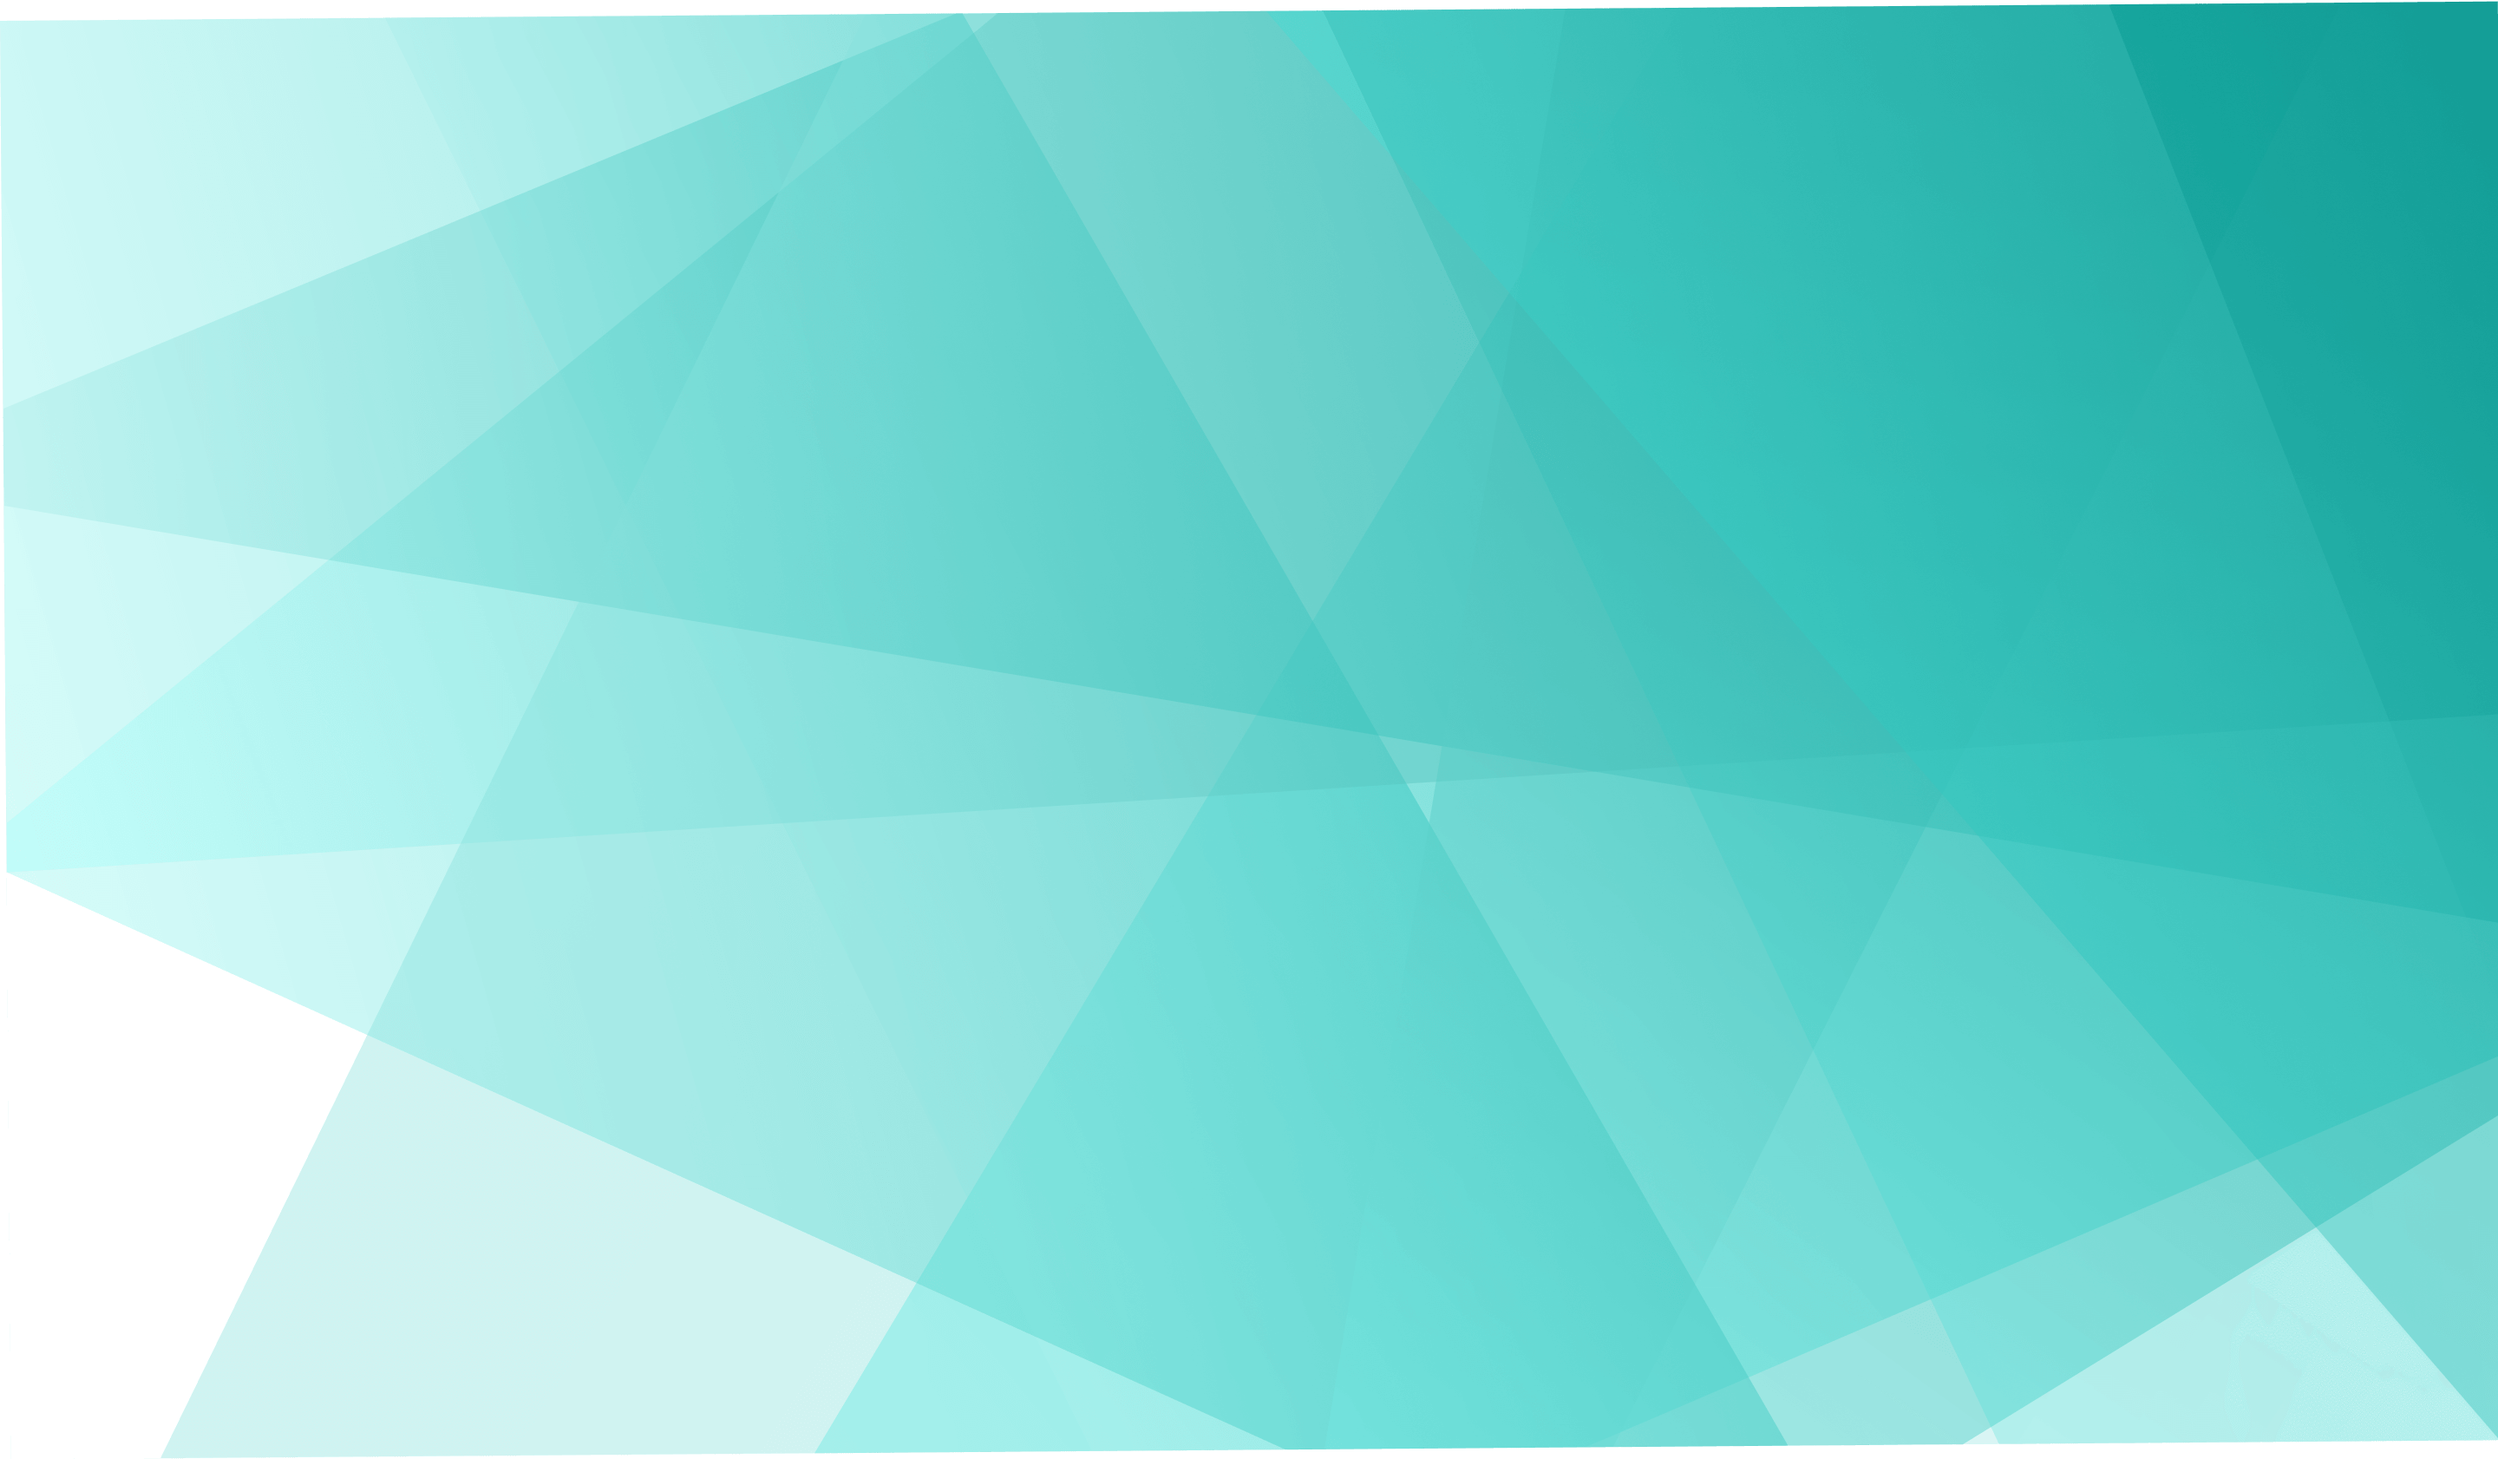
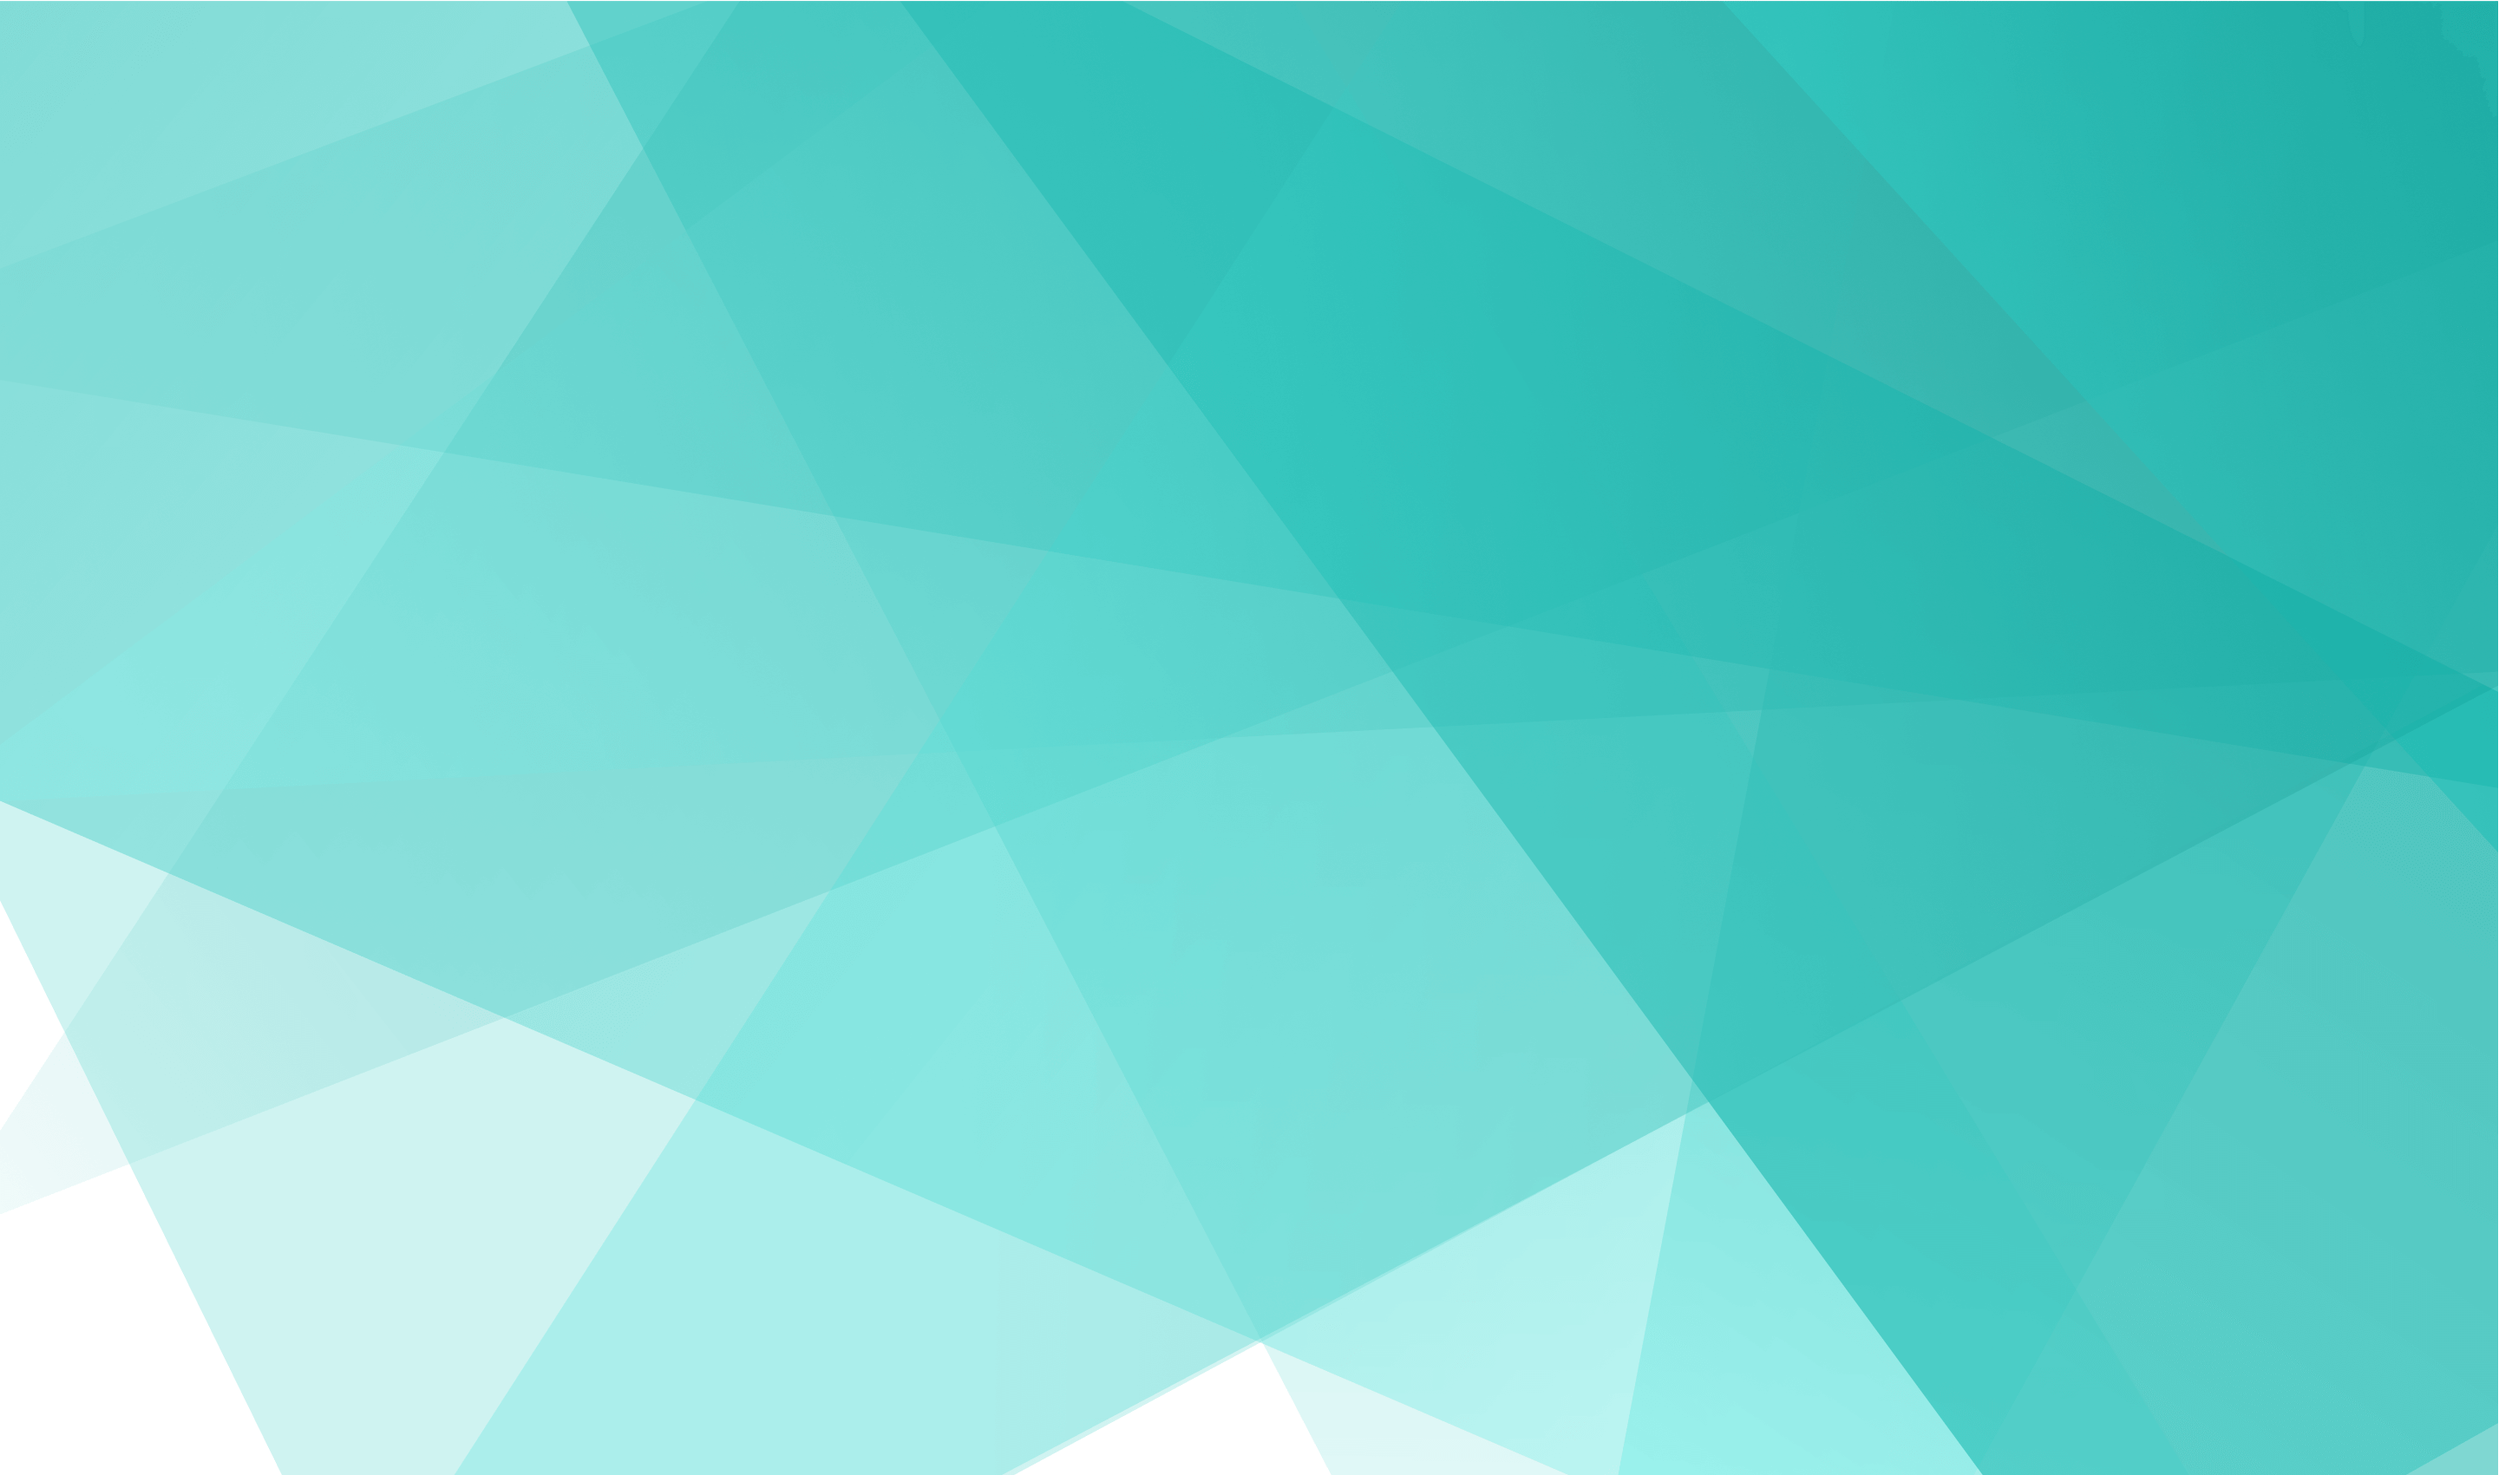
feat: add optimized image on main page, initialize About page

diff --git a/src/pages/Home/blocks/ContactUs/ContactUs.module.css b/src/pages/Home/blocks/ContactUs/ContactUs.module.css
@@ -8,6 +8,8 @@
     background-position: center;
     background-repeat: no-repeat;
     background-size: cover;
+    position: relative;
+    overflow: hidden;
     /* display: flex;
     flex-direction: column;
      justify-content: center; */
@@ -22,10 +24,81 @@
 .content {
     padding: 0 40px;
     /* height: 100%; */
-    display: flex;
-    justify-content: center;
+    /* display: flex;
+    justify-content: center; */
     /* align-items: center; */
 }
+
+.circle {
+    background-color: rgba(13, 239, 227, 0.49);
+    height: 60vw;
+    width: 60vw;
+    min-height: 500px;
+    min-width: 500px;
+    max-height: 900px;
+    max-width: 900px;
+    display: flex;
+    align-items: center;
+    justify-content: center;
+    border-radius: 50%;
+    position: absolute;
+    right: -30px;
+    top: 0;
+}
+
+.circle__content {
+    width: 70%;
+    display: flex;
+    flex-direction: column;
+    align-items: center;
+}
+
+.circle__title {
+    font-size: 40px;
+    font-weight: 700;
+    color: rgb(255, 255, 255);
+    margin-bottom: 30px;
+    text-align: center;
+    font-family: 'Montserrat';
+}
+
+.contact_btn {
+    font-size: 30px;
+    font-weight: 700;
+    padding: 20px 30px;
+    border-radius: 20px;
+    
+}
+
+.contacts {
+    font-size: 30px;
+    font-weight: 600;
+    color: rgb(255, 255, 255);
+    padding-top: 15%;
+}
+
+.contacts__title {
+    font-size: 40px;
+    font-weight: 700;
+    margin-bottom: 50px;
+}
+
+.offices__contacts {
+    width: 40%;
+    display: flex;
+    flex-direction: column;
+    gap: 20px;
+
+}
+
+.office {
+    width: 100%;
+    display: flex;
+    justify-content: space-between;
+}
+
+
+
 
 .why_us__items {
     width: 100%;

diff --git a/src/pages/Home/blocks/ContactUs/ContactUs.js b/src/pages/Home/blocks/ContactUs/ContactUs.js
@@ -7,7 +7,31 @@ const ContactUs = () => {
     <div className={styles.container}>
       <div className={styles.background_filter}>
         <div className={styles.content}>
-          <div className={styles.heading}>{t("our_goal")}</div>
+          <div className={styles.contacts}>
+            <div className={styles.contacts__title}>{t("choose_office")}</div>
+            <div className={styles.offices__contacts}>
+              <div className={styles.office}>
+                <div className={styles.office__name}>Boulouparis</div>
+                <div className={styles.office__phone}>+687 23 06 06</div>
+              </div>
+              <div className={styles.office}>
+                <div className={styles.office__name}>La Foa</div>
+                <div className={styles.office__phone}>+687 737 389</div>
+              </div>
+              <div className={styles.office}>
+                <div className={styles.office__name}>Ducos</div>
+                <div className={styles.office__phone}>+687 23 06 00</div>
+              </div>
+            </div>
+          </div>
+          <div className={styles.circle}>
+            <div className={styles.circle__content}>
+              <h2 className={styles.circle__title}>{t("call_to_action")}</h2>
+              <button className={styles.contact_btn}>
+                {t("contact_btn_text")}
+              </button>
+            </div>
+          </div>
         </div>
       </div>
     </div>

diff --git a/src/pages/Home/Home.module.css b/src/pages/Home/Home.module.css
@@ -1,42 +1,4 @@
 .container {
     width: 100%;
     max-width: 1600px;
-    height: 100vh;
-    background-image: url(../../assets/images/laptop.jpg);
-    background-position: center;
-    background-repeat: no-repeat;
-    background-size: cover;
-}
-.content {
-    background-color: hsla(177, 100%, 26%, 0.7);
-    color: white;
-    height: 100%;
-    display: flex;
-    flex-direction: column;
-    align-items: flex-end;
-    clip-path: polygon(68% 0, 100% 0, 100% 100%, 21% 100%);
-    padding: 40px;
-    /* justify-content: center; */
-}
-.title {
-    margin-top: 10%;
-    font-family: 'Montserrat', sans-serif;
-    font-size: 90px;
-    font-weight: 800;
-    text-transform: uppercase;
-}
-.details {
-    margin-top: 8%;
-    width: 50%;
-    font-size: 48px;
-    font-weight: 600;
-    font-family: 'Open Sans', sans-serif;
-    text-align: end;
-    line-height: 145%;
-}
-@media (max-width: 1400px) {
-    .content{
-        clip-path: polygon(47% 0, 100% 0, 100% 100%, 0% 100%);
-
-    }
 }

diff --git a/src/pages/Home/blocks/WhyUs/WhyUs.js b/src/pages/Home/blocks/WhyUs/WhyUs.js
@@ -24,18 +24,18 @@ const WhyUs = () => {
               <img src={dialogue} alt="dialogue icon" />
             </div>
             <div className={styles.why_us__text_heading}>
-              {t("why_us_1_heading")}
+              {t("why_us_2_heading")}
             </div>
-            <div className={styles.why_us__text}>{t("why_us_1_text")}</div>
+            <div className={styles.why_us__text}>{t("why_us_2_text")}</div>
           </div>
           <div className={styles.why_us__item}>
             <div className={styles.why_us__icon}>
               <img src={graphic} alt="graphic icon" />
             </div>
             <div className={styles.why_us__text_heading}>
-              {t("why_us_1_heading")}
+              {t("why_us_3_heading")}
             </div>
-            <div className={styles.why_us__text}>{t("why_us_1_text")}</div>
+            <div className={styles.why_us__text}>{t("why_us_3_text")}</div>
           </div>
         </div>
       </div>

diff --git a/src/pages/About/About.js b/src/pages/About/About.js
@@ -1,16 +1,18 @@
 import { useTranslation } from "react-i18next";
 import styles from "./About.module.css"
+import CompanyStory from "./blocks/CompanyStory/CompanyStory";
+import Force from "./blocks/Force/Force";
+import Motto from "./blocks/Motto/Motto";
+import Team from "./blocks/Team/Team";
 const About = () => {
     const { t, i18n } = useTranslation();
     return (
-         <div className={styles.container}>
-        <h1>
-            {t("about")}
-        </h1>
-        <p>
-            dfghbjnmhgfrv
-        </p>
-        </div>
-    )
+      <div className={styles.container}>
+        <CompanyStory />
+        <Motto />
+        <Force />
+        <Team />
+      </div>
+    );
 }
 export default About;

diff --git a/src/pages/About/blocks/CompanyStory/CompanyStory.module.css b/src/pages/About/blocks/CompanyStory/CompanyStory.module.css
@@ -1,0 +1,39 @@
+.container {
+    width: 100%;
+    display: flex;
+    
+}
+
+.author {
+    min-width: 300px;
+    width: 55%;
+    height: 100%;
+    background-color: #00867F;
+    color: rgb(255, 255, 255);
+    padding: 50px;
+    font-size: 24px;
+    font-weight: 400;
+    line-height: 145%;
+}
+.author_photo {
+    height: 300px;
+    width: 300px;
+    border-radius: 50%;
+    background-color: rgb(202, 202, 202);
+    margin: 0 auto;
+}
+.author h2 {
+    margin-top: 50px;
+    margin-bottom: 20px;
+    font-size: 32px;
+    font-weight: 500;
+}
+.text {
+    width: 100%;
+    display: flex;
+    align-items: center;
+    padding: 50px;
+    font-size: 30px;
+    padding: 50px;
+    line-height: 145%;
+}

diff --git a/src/pages/Home/blocks/OurGoal/OurGoal.js b/src/pages/Home/blocks/OurGoal/OurGoal.js
@@ -1,8 +1,6 @@
 import { useTranslation } from "react-i18next";
 import styles from "./OurGoal.module.css";
-// import dialogue from "../../../../assets/icons/dialogue.svg";
-// import documents from "../../../../assets/icons/documents.svg";
-// import graphic from "../../../../assets/icons/graphic.svg";
+
 const OurGoal = () => {
   const { t, i18n } = useTranslation();
   return (
@@ -10,7 +8,6 @@ const OurGoal = () => {
       <div className={styles.content}>
         <div className={styles.heading}>{t("our_goal")}</div>
         <div className={styles.text}>{t("our_goal_text")}</div>
-        {/* <img src={dialogue}/> */}
       </div>
     </div>
   );

diff --git a/src/pages/About/blocks/Motto/Motto.module.css b/src/pages/About/blocks/Motto/Motto.module.css
@@ -1,0 +1,33 @@
+
+.container {
+    padding: 200px 150px;
+    display: flex;
+    flex-direction: column;
+    justify-content: center;
+    align-items: center;
+}
+
+.our_motto {
+    font-size: 80px;
+    font-weight: 700;
+    position: relative;
+    left: -20%;
+}
+.our_motto_1,
+.our_motto_2 {
+    background-color: rgba(0, 134, 127, 0.5);
+    height: 124px;
+    width: 644px;
+    display: flex;
+    justify-content: center;
+    align-items: center;
+    font-size: 48px;
+    font-weight: 600;
+    position: relative;
+}
+.our_motto_1 {
+    color: #ffffff;
+}
+.our_motto_2 {
+    right: -20%;
+}

diff --git a/src/pages/About/blocks/CompanyStory/CompanyStory.js b/src/pages/About/blocks/CompanyStory/CompanyStory.js
@@ -1,0 +1,18 @@
+import { useTranslation } from "react-i18next";
+import styles from "./CompanyStory.module.css";
+const CompanyStory = () => {
+  const { t, i18n } = useTranslation();
+  return (
+    <div className={styles.container}>
+      <div className={styles.author}>
+        <div className={styles.author_photo}></div>
+        <h2>Isabelle CECCHINI</h2>
+        <p>{t("director")}</p>
+      </div>
+      <div className={styles.text}>
+        <p>{t("company_story")}</p>
+      </div>
+    </div>
+  );
+};
+export default CompanyStory;

diff --git a/src/pages/About/blocks/Motto/Motto.js b/src/pages/About/blocks/Motto/Motto.js
@@ -1,0 +1,19 @@
+import { useTranslation } from "react-i18next";
+import styles from "./Motto.module.css";
+const Motto = () => {
+  const { t, i18n } = useTranslation();
+  return (
+    <div className={styles.container}>
+      <div className={styles.our_motto}>
+        <p>{t("our_motto")}</p>
+      </div>
+      <div className={styles.our_motto_1}>
+        <p>{t("motto_1")}</p>
+      </div>
+      <div className={styles.our_motto_2}>
+        <p>{t("motto_2")}</p>
+      </div>
+    </div>
+  );
+};
+export default Motto;

diff --git a/src/pages/Home/blocks/OurGoal/OurGoal.module.css b/src/pages/Home/blocks/OurGoal/OurGoal.module.css
@@ -3,9 +3,10 @@
     min-height: 700px;
     width: 100%;
     background-image: url(../../../../assets/images/polygon_background.png);
-    background-position: center;
+    background-position: top;
     background-repeat: no-repeat;
     background-size: cover;
+    /* background-size: contain; */
     display: flex;
     flex-direction: column;
     justify-content: center;
@@ -19,6 +20,7 @@
     flex-direction: column;
     width: 70%;
     max-width: 700px;
+    text-align: center;
 }
 
 .heading {

diff --git a/src/components/Header/Header.js b/src/components/Header/Header.js
@@ -48,7 +48,7 @@ const Header = () => {
           <details className={styles.lang}>
             <summary className={styles.lang__chosen}>{lang}</summary>
             <div className={styles.lang__options}>
-              <button onClick={() => handleChangeLng("eng")}>eng</button>
+              <button onClick={() => handleChangeLng("en")}>eng</button>
               <button onClick={() => handleChangeLng("fr")}>fr</button>
             </div>
           </details>
